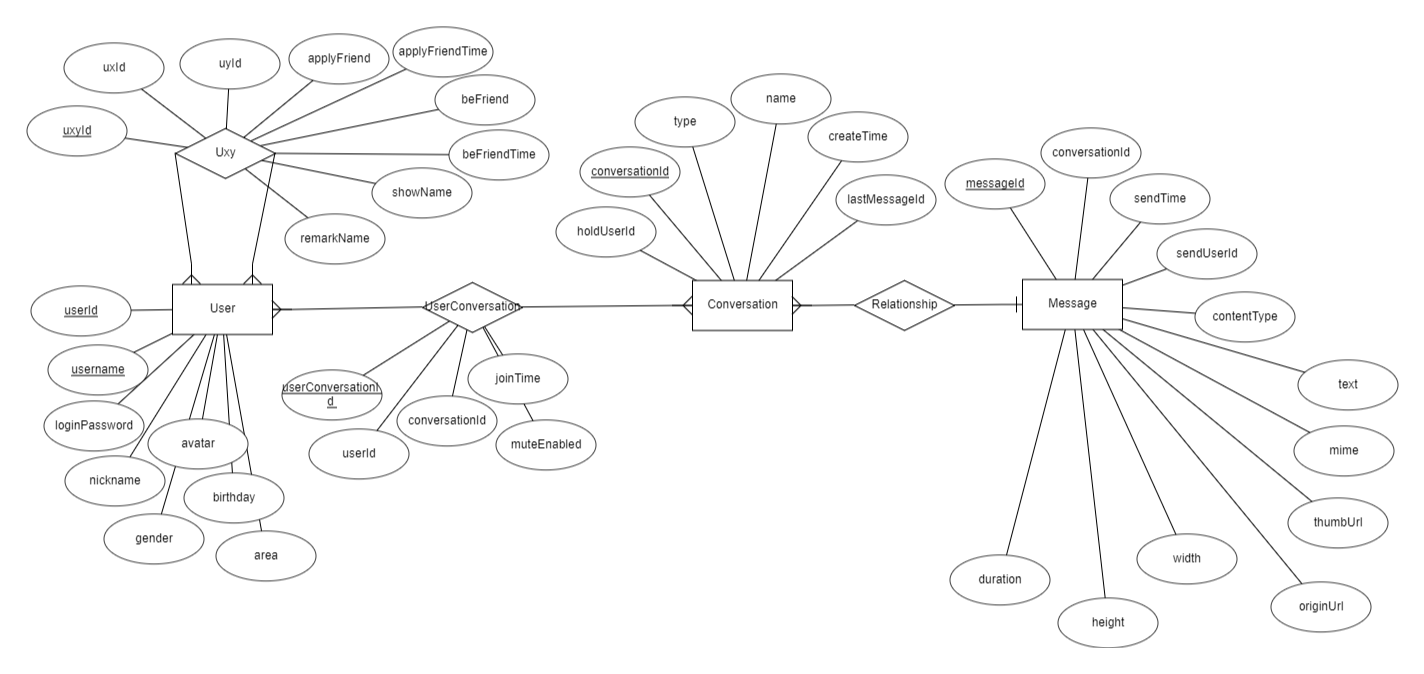
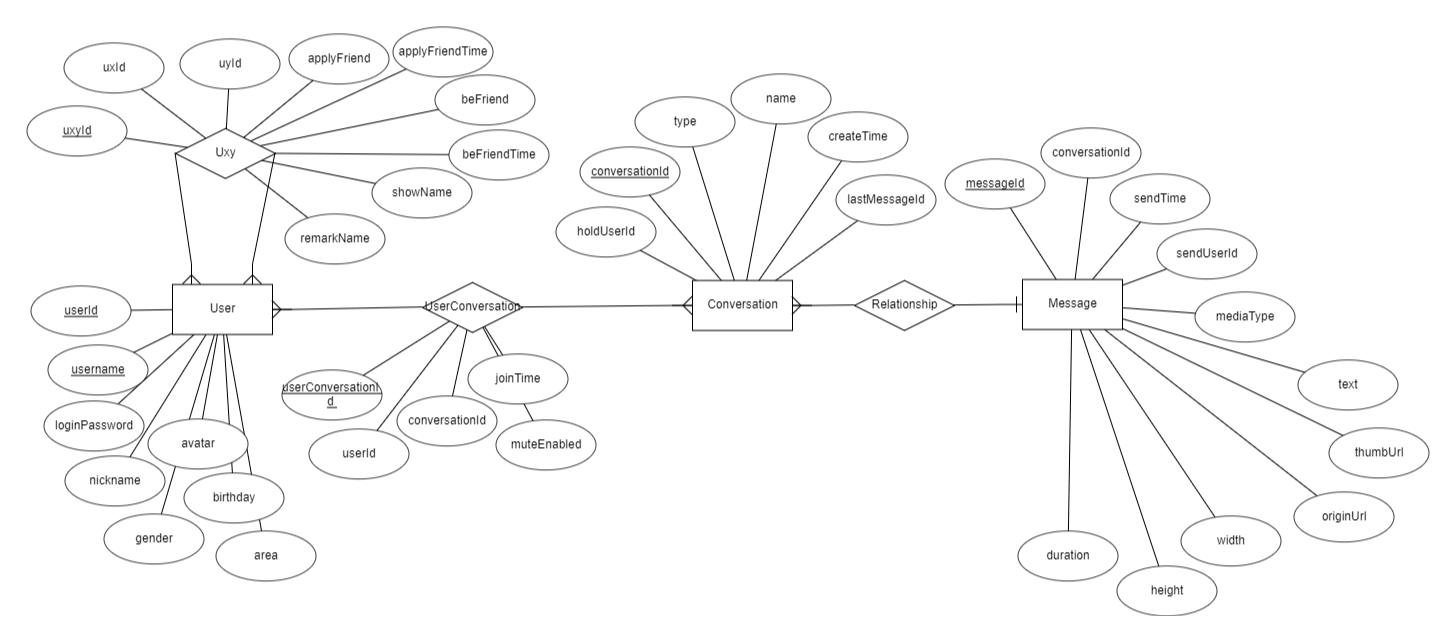
fix

diff --git a/DBSchema.md b/DBSchema.md
@@ -1,13 +1,12 @@
 # Message
 | 字段  | 类型  | 约束  |  说明 |
 |---|---|---|---|
-| messageId  | String  | 主键  | 消息Id（muuid）  |
+| messageId  | String  | 主键  | 消息Id  |
 | conversationId  | String  | 非空，Hash索引  | 对话Id  |
 | sendTime  | Long  | 非空，Sort索引  | 发送时间  |
 | sendUserId  | String  | 非空  | 发送者用户Id  |
-| contentType  | Integer  | 非空  | 内容类型（0保留，1文本、2图片、3音频、4视频）  |
+| mediaType  | Integer  | 非空  | 内容类型（0保留，1文本、2图片、3音频、4视频）  |
 | text  | String  |   | 文本  |
-| mime  | String  |   | MIME  |
 | thumbUrl  | String  |   | 缩略图Url  |
 | originUrl  | String  |   | 原图Url  |
 | width  | Integer  |   | 宽度  |
@@ -17,7 +16,7 @@
 # Conversation
 | 字段  | 类型  | 约束  |  说明 |
 |---|---|---|---|
-| conversationId  | String  | 主键  | 对话Id（cuuid）  |
+| conversationId  | String  | 主键  | 对话Id  |
 | type  | Integer  | 非空  | 类型（0保留，1单聊，2群聊）  |
 | name  | String  |   | 上次消息Id  |
 | createTime  | Long  | 非空  | 创建时间  |
@@ -27,19 +26,19 @@
 # User
 | 字段  | 类型  | 约束  |  说明 |
 |---|---|---|---|
-| userId  | String  | 主键  | 用户Id（uuuid）  |
+| userId  | String  | 主键  | 用户Id  |
 | username  | String  | 非空，唯一，Hash索引  | 用户名  |
 | loginPassword  | String  | 非空  | 登录密码  |
 | nickname  | String  | 非空  | 昵称  |
 | avatar  | String  |   | 头像  |
 | birthday  | Long  |   | 地区  |
-| gender  | Integer  |   | 性别（0保密，1男，2女）  |
+| gender  | Integer  |   | 性别（0保留，1男，2女）  |
 | area  | String  |   | 地区  |
 
 # UserConversation
 | 字段  | 类型  | 约束  |  说明 |
 |---|---|---|---|
-| userConversationId  | String  | 主键  | 用户对话Id（uuuidVcuuid）  |
+| userConversationId  | String  | 主键  | 用户对话Id（用户Id+会话Id）  |
 | userId  | String  | 非空，Hash索引  | 用户Id  |
 | conversationId  | String  | 非空，Hash索引  | 对话Id  |
 | joinTime  | Long  | 非空  | 加入时间  |
@@ -48,7 +47,7 @@
 # UxUy
 | 字段  | 类型  | 约束  |  说明 |
 |---|---|---|---|
-| uxyId  | String  | 主键  | uxyId（UxIdVUyId）  |
+| uxyId  | String  | 主键  | uxyId（用户xId+用户yId）  |
 | uxId  | String  | 非空，Hash索引  | uxId  |
 | uyId  | String  | 非空，Hash索引  | uyId  |
 | applyFriend  | Boolean  |   | 申请好友  |
